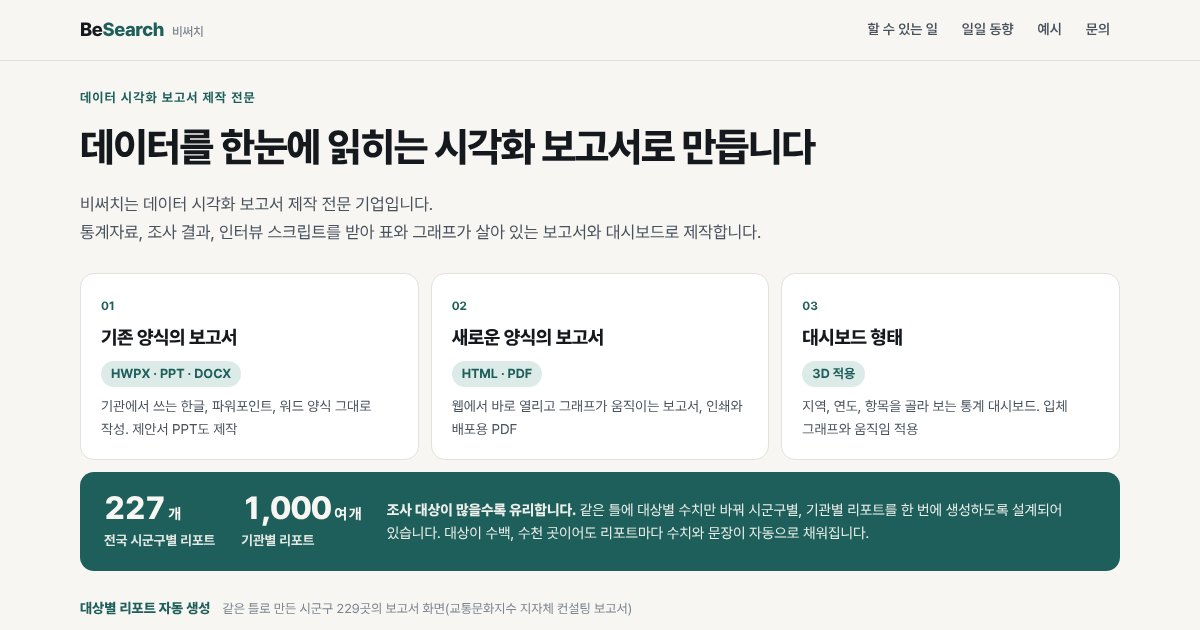
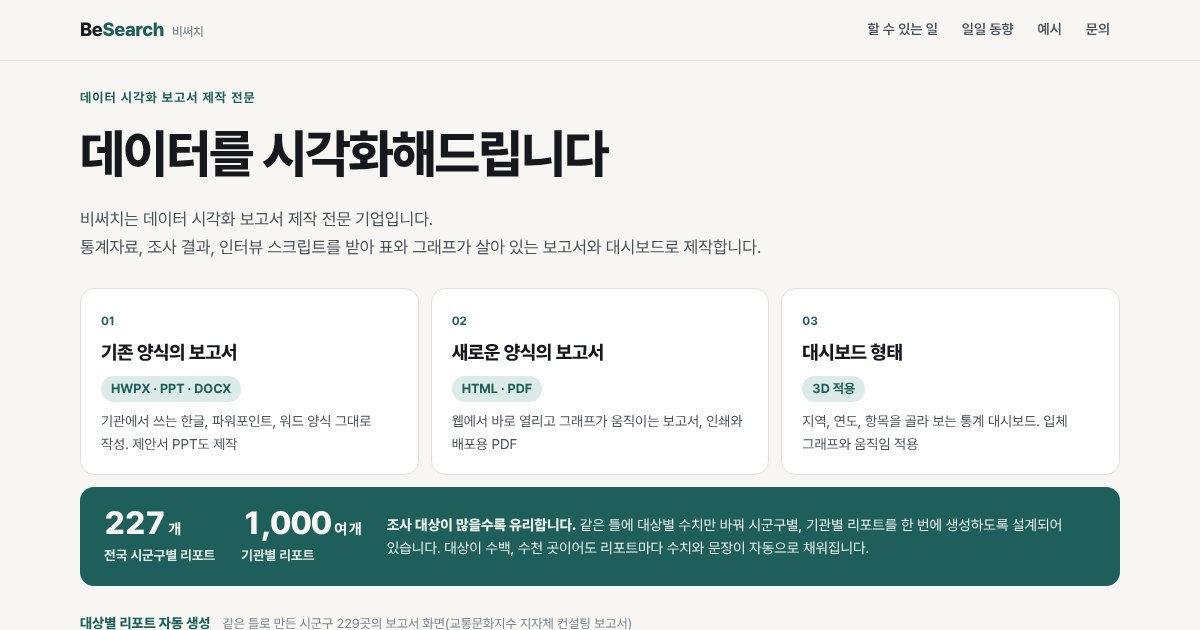
첫 화면 큰 제목을 '데이터를 시각화해드립니다'로 변경
Claude-Session: https://claude.ai/code/session_01KSbG1FWzM5tJqa3JmCj8ps

Changed region(s): [[0.0617, 0.4825, 0.9558, 1.0], [0.0617, 0.181, 0.6783, 0.4222]]

diff --git a/index.html b/index.html
@@ -152,7 +152,7 @@ a.gc:hover{border-color:var(--acc)}
 }
 
 .hero{padding:56px 20px 44px}
-.hero h1{font-size:clamp(22px,3.5vw,40px)}
+.hero h1{font-size:clamp(30px,5vw,52px)}
 .hero h1 span{white-space:nowrap}
 h2,h3,h4{text-wrap:balance}
 .pil{display:grid;grid-template-columns:repeat(3,1fr);gap:12px;margin-top:26px}
@@ -281,7 +281,7 @@ a.shot:hover{border-color:var(--acc)}
 <main id="top">
 <div class="in hero">
   <div class="eyebrow">데이터 시각화 보고서 제작 전문</div>
-  <h1><span>데이터를</span> <span>한눈에 읽히는 시각화 보고서로</span> <span>만듭니다</span></h1>
+  <h1><span>데이터를 시각화해드립니다</span></h1>
   <p>비써치는 데이터 시각화 보고서 제작 전문 기업입니다.<br>통계자료, 조사 결과, 인터뷰 스크립트를 받아 표와 그래프가 살아 있는 보고서와 대시보드로 제작합니다.</p>
   <div class="pil">
     <div><span>01</span><b>기존 양식의 보고서</b><em>HWPX · PPT · DOCX</em><p>기관에서 쓰는 한글, 파워포인트, 워드 양식 그대로 작성. 제안서 PPT도 제작</p></div>

diff --git a/template.html b/template.html
@@ -152,7 +152,7 @@ a.gc:hover{border-color:var(--acc)}
 }
 
 .hero{padding:56px 20px 44px}
-.hero h1{font-size:clamp(22px,3.5vw,40px)}
+.hero h1{font-size:clamp(30px,5vw,52px)}
 .hero h1 span{white-space:nowrap}
 h2,h3,h4{text-wrap:balance}
 .pil{display:grid;grid-template-columns:repeat(3,1fr);gap:12px;margin-top:26px}
@@ -281,7 +281,7 @@ a.shot:hover{border-color:var(--acc)}
 <main id="top">
 <div class="in hero">
   <div class="eyebrow">데이터 시각화 보고서 제작 전문</div>
-  <h1><span>데이터를</span> <span>한눈에 읽히는 시각화 보고서로</span> <span>만듭니다</span></h1>
+  <h1><span>데이터를 시각화해드립니다</span></h1>
   <p>비써치는 데이터 시각화 보고서 제작 전문 기업입니다.<br>통계자료, 조사 결과, 인터뷰 스크립트를 받아 표와 그래프가 살아 있는 보고서와 대시보드로 제작합니다.</p>
   <div class="pil">
     <div><span>01</span><b>기존 양식의 보고서</b><em>HWPX · PPT · DOCX</em><p>기관에서 쓰는 한글, 파워포인트, 워드 양식 그대로 작성. 제안서 PPT도 제작</p></div>

diff --git a/contact.html b/contact.html
@@ -152,7 +152,7 @@ a.gc:hover{border-color:var(--acc)}
 }
 
 .hero{padding:56px 20px 44px}
-.hero h1{font-size:clamp(22px,3.5vw,40px)}
+.hero h1{font-size:clamp(30px,5vw,52px)}
 .hero h1 span{white-space:nowrap}
 h2,h3,h4{text-wrap:balance}
 .pil{display:grid;grid-template-columns:repeat(3,1fr);gap:12px;margin-top:26px}

diff --git a/daily.html b/daily.html
@@ -152,7 +152,7 @@ a.gc:hover{border-color:var(--acc)}
 }
 
 .hero{padding:56px 20px 44px}
-.hero h1{font-size:clamp(22px,3.5vw,40px)}
+.hero h1{font-size:clamp(30px,5vw,52px)}
 .hero h1 span{white-space:nowrap}
 h2,h3,h4{text-wrap:balance}
 .pil{display:grid;grid-template-columns:repeat(3,1fr);gap:12px;margin-top:26px}

diff --git a/examples.html b/examples.html
@@ -152,7 +152,7 @@ a.gc:hover{border-color:var(--acc)}
 }
 
 .hero{padding:56px 20px 44px}
-.hero h1{font-size:clamp(22px,3.5vw,40px)}
+.hero h1{font-size:clamp(30px,5vw,52px)}
 .hero h1 span{white-space:nowrap}
 h2,h3,h4{text-wrap:balance}
 .pil{display:grid;grid-template-columns:repeat(3,1fr);gap:12px;margin-top:26px}
